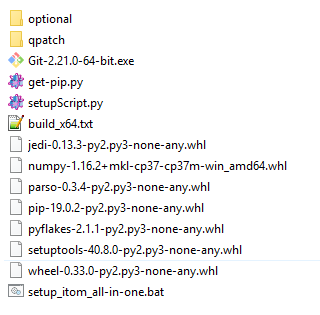
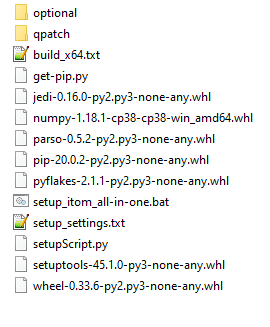
update :book: about the setup batch file

Changed region(s): [[0.0, 0.0, 1.0, 0.9429]]

diff --git a/docs/userDoc/source/02_installation/install_all-in-one_development_setup_creation.rst b/docs/userDoc/source/02_installation/install_all-in-one_development_setup_creation.rst
@@ -210,6 +210,8 @@ VTKx.x.x
 Modify setupscript
 =============================================
 
+Update the version of the python packages (pip, setuptools, wheel) of the **setup_itom_all-in-one.bat**.
+
 The setup.py file needs some changes to work with the new version of the 
 software/packages. The setup checks, if the packages are given in the right version. 
 
